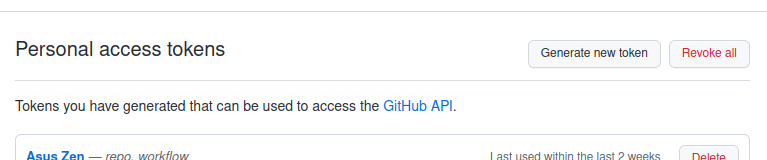
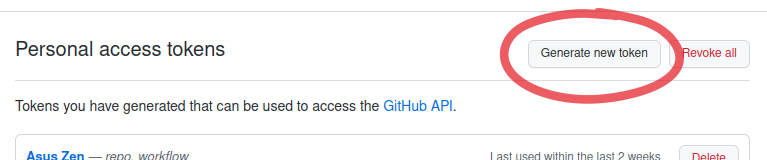
Edited Donate a token page
* image highlights
* para spacing using blank lines

Changed region(s): [[0.6297, 0.0312, 0.8996, 0.6562]]

diff --git a/content/about/post/how-to-donate-github-token.md b/content/about/post/how-to-donate-github-token.md
@@ -3,36 +3,47 @@ title: 'How to donate a GitHub token to an Open Source project'
 intro_image: "/about/images/illustrations/employers.svg"
 ---
 
-Access to [GitHub API](https://docs.github.com/en/rest) has limits on how many requests GitHub accepts from a service identified by a token. Adding tokens donated by GitHub members helps open source projects like [stackmuncher.com](https://stackmuncher.com) process more data faster.
+Access to [GitHub API](https://docs.github.com/en/rest) has limits on how many requests GitHub accepts from a given service. Adding tokens donated by GitHub members helps open source projects like [stackmuncher.com](https://stackmuncher.com) process more data faster.
+ 
+
+ 
 
 ## Step by step instructions
+ 
 
 #### 1. Navigate to https://github.com/settings/tokens
 It will take you to *Personal access tokens* page. Click on *Generate new token* to open a new token form.
 
 ![Personal access tokens menu](/about/images/posts/how-to-donate-github-token/4-gen-new-token-link.png)  
-   
-   
+ 
+
+ 
+
+
 #### 2. Fill in the token form.
 E.g. name it *stackmuncher*, set its expiration and leave all the other checkboxes (scopes) unchecked. This will limit the token to Public GitHub API and ensure that none of your private data can be accessed.
 
 ![New token form](/about/images/posts/how-to-donate-github-token/5-new-token-form.png)
 
 Click on *Generate token* at the bottom of the page.
-   
-   
-   
-   
+ 
+
+ 
+
+
 #### 3. Copy the newly generated token and email it to info@stackmuncher.com
 
 ![New token](/about/images/posts/how-to-donate-github-token/6-token-generated.png)
 
 * You can delete the token on that same page when you no longer want it to be used
+ 
+
+ 
 
 ## How your token can be used
 
-A token with no additional access rights (no boxes checked on when creating it) can access public data for all of GitHub. It cannot access any of your or anyone else's private repositories or personal data.
+A token with no additional access rights (no boxes checked on when creating it) can access only public data for all of GitHub. It cannot access any of your or anyone else's private repositories or personal data.
 
 GitHub allows up to [5,000 API requests per member](https://docs.github.com/en/rest/overview/resources-in-the-rest-api#rate-limiting) across all member tokens. We limit our use to 1,000 requests per token to make sure your other GitHub apps are not affected.
 
-We will get *Access denied* from GitHub and will remove your token from our database if you revoke it.
+If your token expires or you delete it we will get *Access denied* from GitHub and will remove your token from our database .
